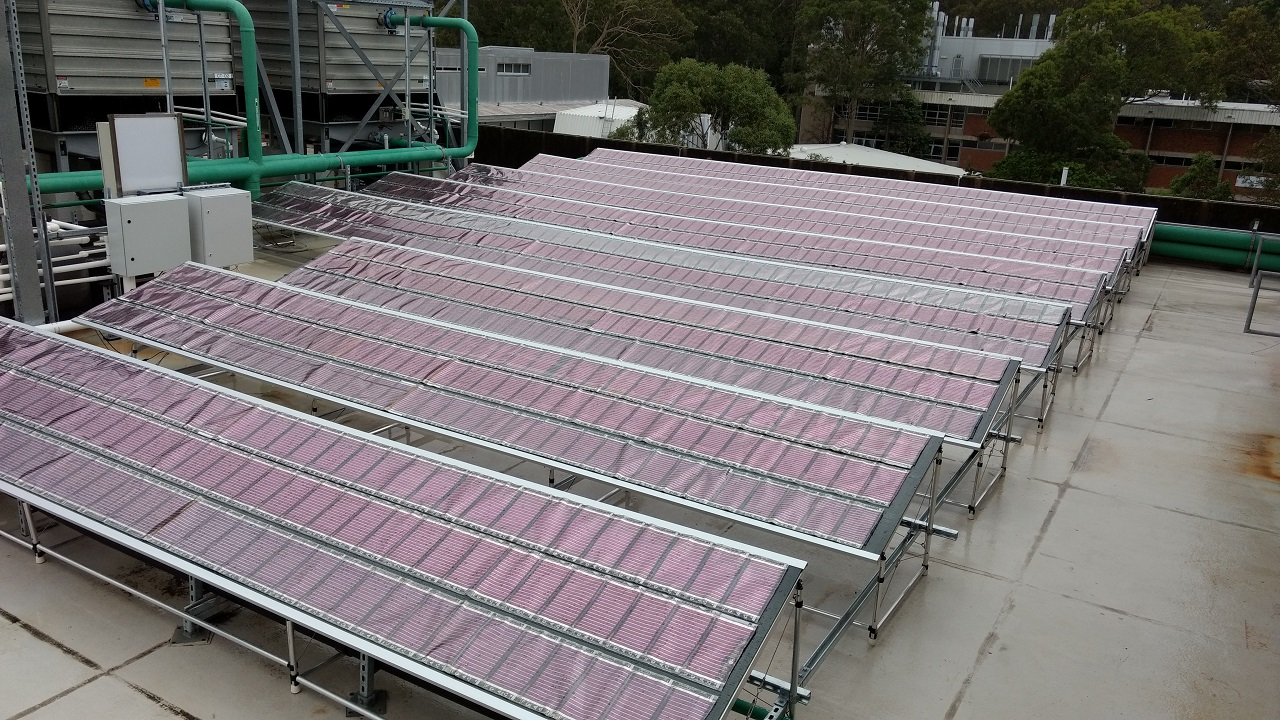
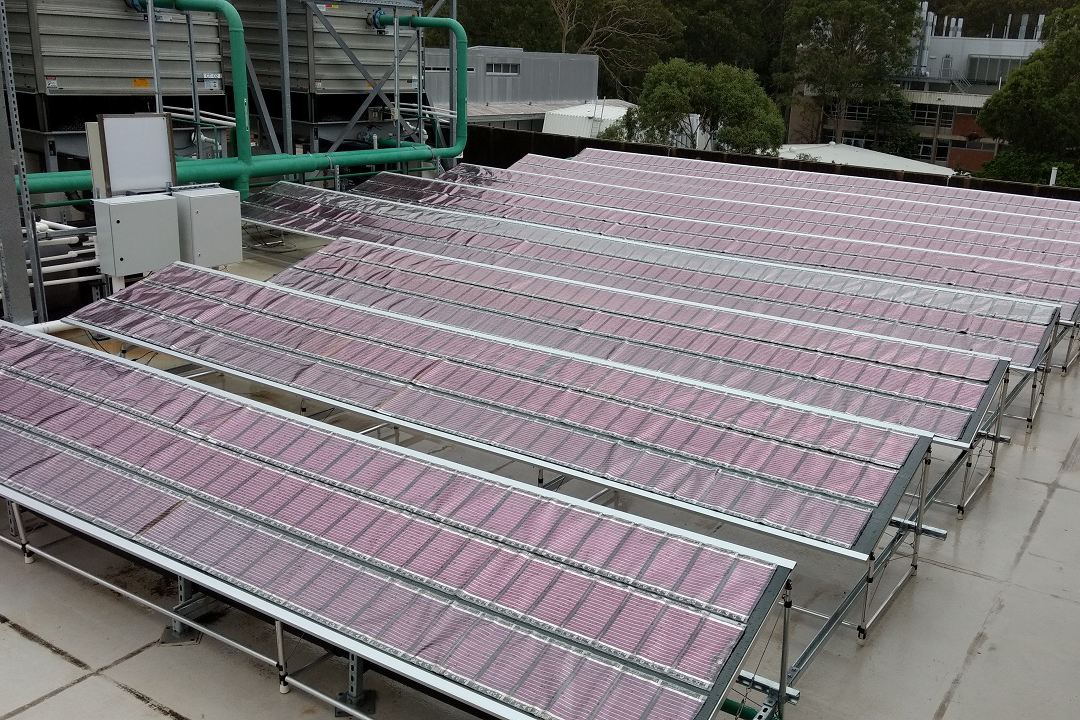
Signed-off-by: Ben Vaughan <ben@benvaughan.com>

diff --git a/pages/1792ea33ce23402688347d930367d63ed4f5f462/index.html b/pages/1792ea33ce23402688347d930367d63ed4f5f462/index.html
@@ -193,7 +193,7 @@
                     </div>
                 </div>
                 <div class="col-md-9 col-sm-12">
-                    <img src="/static/img/opv-function.jpg">
+                    <img src="/static/img/opv-function.jpg" class="img-responsive">
                 </div>
             </div>
         </div>
@@ -387,7 +387,7 @@
                 <div class="col-md-9 col-sm-12">
                     <div class="col-md-4 col-sm-6 padding-right-zero">
                         <div class="portfolio-box design">
-                            <img src="http://coesolar.com.au/static/img/msb_roof.jpg" alt="" class="img-responsive">
+                            <img src="http://coesolar.com.au/static/img/msb_roof_small.jpg" alt="" class="img-responsive">
                         </div>
                         <p class="sec-para"><strong>100 Square</strong></p>
                         <p class="sec-para">
